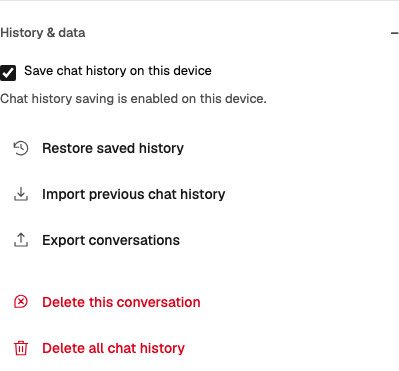
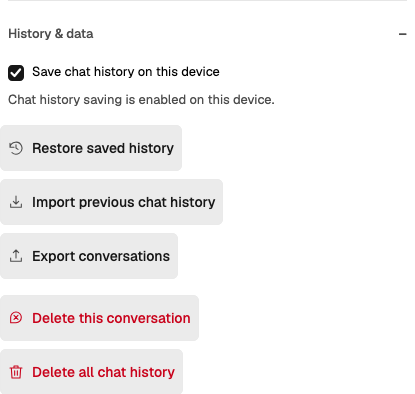
test(assistant): verify effective themes and record action affordance

diff --git a/test/e2e/agent-history-actions.spec.ts b/test/e2e/agent-history-actions.spec.ts
@@ -59,9 +59,13 @@ for (const scheme of ['light', 'dark'] as const) {
   }, info) => {
     test.setTimeout(120_000);
     await page.emulateMedia({ colorScheme: scheme });
+    // Exercise the product's persisted theme choice as well as media emulation;
+    // a screenshot named "dark" must not silently accept a light token canvas.
+    await page.addInitScript((theme) => localStorage.setItem('ran-theme', theme), scheme);
     for (const locale of ['en', 'pt']) {
       await page.setViewportSize({ width: 1280, height: 900 });
       await openHistory(page, locale);
+      await expect(page.locator('html')).toHaveAttribute('data-ran-theme', scheme);
       const options = page.locator('.agent-history-options');
       for (const width of [1280, 360, 320]) {
         await page.setViewportSize({ width, height: 900 });

diff --git a/docs/explorations/2026-10-20-assistant-layout-acceptance.md b/docs/explorations/2026-10-20-assistant-layout-acceptance.md
@@ -83,21 +83,23 @@ Persistence, model loading, document writes and dependency versions are unchange
 
 ## Follow-up: grouped history commands
 
-History & data now uses flat native command rows inside the established settings pane.
-Restore/Import/Export share icon/label columns and full-width targets, with a 16px gap
-before the destructive commands. There is no inner group outline, group fill, row rule,
-deletion divider or transparent border retaining an obsolete card inset. Hover/press,
-keyboard focus, disabled states and the explicit danger confirmation remain distinct.
+History & data uses content-sized native command buttons in one column. Restore/Import/Export
+share the checkbox's icon/control and text columns, with 8px between buttons and a 16px gap
+before destructive commands. Each button owns a quiet resting surface and functional stroke;
+there is no inner group outline, group fill, row rule or deletion divider. Hover/press,
+keyboard focus, disabled states and explicit danger confirmation remain distinct.
 
-An earlier framed group, followed by inset separators, still repeated the pane's existing
-boundary. The final revision removes that enclosure instead of making its lines more subtle.
-Acceptance measures full-row geometry, contrast and interactions without requiring a
-decorative group frame, and records the complete pane as well as the command region.
+Earlier framed groups and inset separators repeated the pane's existing boundary. Removing
+those enclosures was appropriate, but the subsequent all-flat treatment also erased resting
+affordance. It measured alignment only within the command list, missing adjacent checkbox
+columns. The current revision retains the simplified grouping while restoring each native
+button's own functional shape. Acceptance records the complete pane as well as the command
+region, with the pointer away, and checks shared visible columns rather than equal row widths.
 
 The runtime baseline after adding icon/label rows passed all 252 unit files / 6,801 tests
 (including 274 focused history/panel/write tests), lint/typecheck and the production build.
-Two existing non-fatal `PromiseRejectionHandledWarning` messages were printed. The final
-flat-composition revision changes CSS, browser acceptance and prose; runtime logic is unchanged.
+Two existing non-fatal `PromiseRejectionHandledWarning` messages were printed. The subsequent
+composition and affordance revisions change CSS, browser acceptance and prose; runtime logic is unchanged.
 The coverage percentages above belong to the earlier layout-only coverage run.
 
 ## Revision scope: remove redundant command enclosures
@@ -122,8 +124,10 @@ history/state/storage code and unrelated site layouts.
 
 Compatibility red lines: keep the panel boundary, field borders, keyboard focus outlines,
 44px targets, icon/label columns, accessible names, destructive confirmation and draft/focus
-return behavior. The simplest composition is a flat command list with one 16px gap before
-destructive actions. It needs no replacement card, muted group fill, shadow or new abstraction.
+return behavior. The composition uses a single command column with one 16px gap before
+destructive actions. It needs no replacement card, muted group fill, raised shadow or new
+abstraction. Native buttons may own a functional surface; removing group wrappers must not
+remove the cue that an individual control is clickable.
 
 Acceptance: inspect the whole pane and its command region in both themes and at desktop,
 360px and 320px widths; use the existing English/Portuguese, pointer/keyboard, disabled,
@@ -132,26 +136,66 @@ gates in ran. The review must explain the purpose of each remaining stable bound
 
 ## Remaining boundary review
 
-| Surface                | Boundary retained                                              | Distinct purpose                                                            |
-| ---------------------- | -------------------------------------------------------------- | --------------------------------------------------------------------------- |
-| Assistant/editor       | Panel edge                                                     | Independent sidebar and resize boundary                                     |
-| Models and Sources     | Picker/search/input frames                                     | Values that can be edited or selected                                       |
-| Conversations          | Search field and one History & data section rule               | Search input and a major change from conversation browsing to data settings |
-| History command groups | None at rest                                                   | Title, icon/label columns and proximity already express grouping            |
-| Command focus          | Keyboard outline                                               | Transient focus state, not decorative containment                           |
-| History deletion       | Solid confirmation button                                      | Explicit destructive commitment after the existing confirmation step        |
-| Artifacts              | Form/control boundaries and task-specific save/apply hierarchy | Editable values and explicit document/result operations                     |
+| Surface                | Boundary retained                                              | Distinct purpose                                                                   |
+| ---------------------- | -------------------------------------------------------------- | ---------------------------------------------------------------------------------- |
+| Assistant/editor       | Panel edge                                                     | Independent sidebar and resize boundary                                            |
+| Models and Sources     | Picker/search/input frames                                     | Values that can be edited or selected                                              |
+| Conversations          | Search field and one History & data section rule               | Search input and a major change from conversation browsing to data settings        |
+| History command groups | No group enclosure; individual secondary button surfaces       | Type/proximity express grouping; each button shape identifies an actionable target |
+| Command focus          | Keyboard outline                                               | Transient focus state, not decorative containment                                  |
+| History deletion       | Solid confirmation button                                      | Explicit destructive commitment after the existing confirmation step               |
+| Artifacts              | Form/control boundaries and task-specific save/apply hierarchy | Editable values and explicit document/result operations                            |
 
-![Complete Conversations pane with flat commands](../media/assistant-layout/2026-10-20-history-pane-light.png)
+![Complete Conversations pane with visible command buttons](../media/assistant-layout/2026-10-20-history-pane-light.png)
 
-![Flat history commands in light mode](../media/assistant-layout/2026-10-20-history-commands-light.png)
+![History command buttons in light mode](../media/assistant-layout/2026-10-20-history-commands-light.png)
 
-![Flat history commands in dark mode](../media/assistant-layout/2026-10-20-history-commands-dark.png)
+![History command buttons in dark mode](../media/assistant-layout/2026-10-20-history-commands-dark.png)
 
-![Portuguese flat commands at 320px](../media/assistant-layout/2026-10-20-history-commands-320-dark.png)
+![Portuguese command buttons at 320px](../media/assistant-layout/2026-10-20-history-commands-320-dark.png)
 
-Final flat-composition verification: the history/layout Chromium suite passed all 10 cases;
+Earlier flat-composition verification (before the affordance correction below): the history/layout Chromium suite passed all 10 cases;
 the Firefox/WebKit history-action suite passed all six cases. Retries were disabled.
 The updated row-edge acceptance first failed on the old enclosure's 2px reduction in
 available target width, then passed after the redundant frame/insets were removed.
 Ran documentation/link/eight-locale checks and changed-file formatting passed.
+
+## Resting affordance and shared control columns
+
+User review exposed two acceptance gaps in document `9f3c5a4c` / ran `320a91da6`.
+Real Chromium measurements relative to History & data found the checkbox at 0px with its
+label at 24px, while command icons started at 12px and command labels at 42px. The five
+commands aligned with each other, but not with the adjacent control. Their resting background
+also equalled the panel canvas, so icons and verbs could read as static content.
+
+The correction keeps the existing allowed file scope and runtime compatibility red lines.
+It replaces the universal flat-row prescription in ran with context-dependent control affordance:
+remove redundant wrappers, retain an individual standalone button's recognizable resting shape.
+Document now uses 16px SVG viewports, 8px icon gaps and padding, and an explicit 8px inline-start
+target extension into the owned gutter. Measured checkbox/icon edges are 16px from the panel
+origin; all related text starts at 40px. The extension stays inside the pane and does not cause
+horizontal scrolling. Content-sized buttons avoid a large empty full-row target.
+
+The new browser acceptance failed on the old geometry before implementation. Its first run
+against the new surfaces caught light-mode danger text contrast of 4.475:1 and an 8px scroll
+extension. Using the existing darker danger foreground role and limiting the extension to
+inline-start corrects those actual failures. Surface differences are an automated guard,
+not evidence that user discoverability has been measured; screenshots still require visual review.
+
+Final persisted-theme affordance verification: Chromium History 3 passed; Firefox/WebKit History 6 passed;
+Chromium shared layout 7 passed, all without retries. The History cases cover both themes,
+English/Portuguese at desktop, 360px and 320px, shared checkbox/icon/text columns, resting
+surface distinction, readable danger states, disabled/hover/press, keyboard focus, Enter/Escape,
+focus return, real export downloads and 44px touch targets. The renders above are current
+Firefox browser captures, including the full pane. Visual review found no remaining
+implementation issue; its stale-contract wording finding was corrected in this record and
+the application design guide. Lint/typecheck, changed-file formatting, production preview
+build, ran docs/eight-locale/link checks and whitespace checks passed. Runtime logic remains
+unchanged; the prior 6,801-test runtime baseline was not rerun for this CSS/docs-only correction.
+
+Screenshot inspection also caught a theme-coverage gap: the media-emulated Firefox run
+produced light renders under dark filenames. Its initial passing result did not establish
+dark-mode coverage. The final History matrix selects the product's persisted `ran-theme`
+choice at boot and asserts `data-ran-theme` before recording either theme. Final screenshots
+replace those incorrect evidence files. This checks the rendered saved-theme setting; it does
+not establish the cause of the Firefox system-media discrepancy.

diff --git a/docs/design-system.md b/docs/design-system.md
@@ -257,20 +257,29 @@ or inspection is not acceptance evidence.
 ### Settings command groups
 
 History & data is already a named section inside the assistant pane. Restore, Import and
-Export therefore use flat native button rows: no inner group frame, added group fill,
-shadow or row separators. Each row has an 18px decorative icon, a 14px label and a minimum
-44px target. Row frames return to the content rail; shared internal padding keeps icons
-and labels aligned across routine and destructive commands. Long translations wrap inside
-their row rather than changing columns. The save-history checkbox uses the monochrome primary role.
+Export use content-sized native secondary buttons in one column: each button has a restrained
+resting surface and functional inset stroke, with no enclosing group frame, group fill,
+raised shadow or row separators. Keep 8px between buttons and 16px before deletion commands.
+A recognizable button shape must be visible before hover in both themes and on touch screens;
+verb labels and hover feedback alone do not establish initial discoverability.
 
-Deletion commands use quiet danger text/icons and a 16px group gap without another divider.
-Explicit verbs, aligned icons, repeated full-row targets and hover/press/focus feedback provide
-the command affordance. Only explicit confirmation has a solid danger fill. Draft, confirmation,
-busy and focus-return behavior remain owned by the existing controls.
+The declared columns are 16px from the panel’s inner edge for both checkbox and 16px icon
+viewports, and 40px for checkbox/action text Ranges. Each command target extends 8px into the
+owned inline-start gutter, with 8px inline padding and icon/label gap; target frames need not
+match visible columns. Keep targets inside the pane, at least 44px high, and non-overlapping.
+Long translations wrap without shifting the columns or overflowing the pane. The save-history
+checkbox uses the monochrome primary role.
+
+Deletion commands share the secondary control shape with readable danger text/icons; only
+explicit confirmation has a solid danger fill. Hover, press, disabled and keyboard focus
+remain distinct. Draft, confirmation, busy and focus-return behavior remain owned by the
+existing controls. Acceptance checks actual renders as well as shared checkbox/icon/text
+geometry, resting surface difference from the canvas, text contrast and real interactions.
 
 Review boundaries in the full pane. The panel/editor edge owns the independent sidebar;
 the search/input frames identify editable values; the single History & data section divider
-separates task regions; keyboard outlines identify focus. An inner card or more row rules
+separates task regions; button surfaces identify action targets; keyboard outlines identify focus.
+An inner card or more row rules
 would repeat those relationships. Models picker frames, Sources search/attachment controls
 and Artifacts form fields keep their functional control boundaries. Do not remove every
 border globally, add transparent borders to preserve obsolete card insets, or require a
